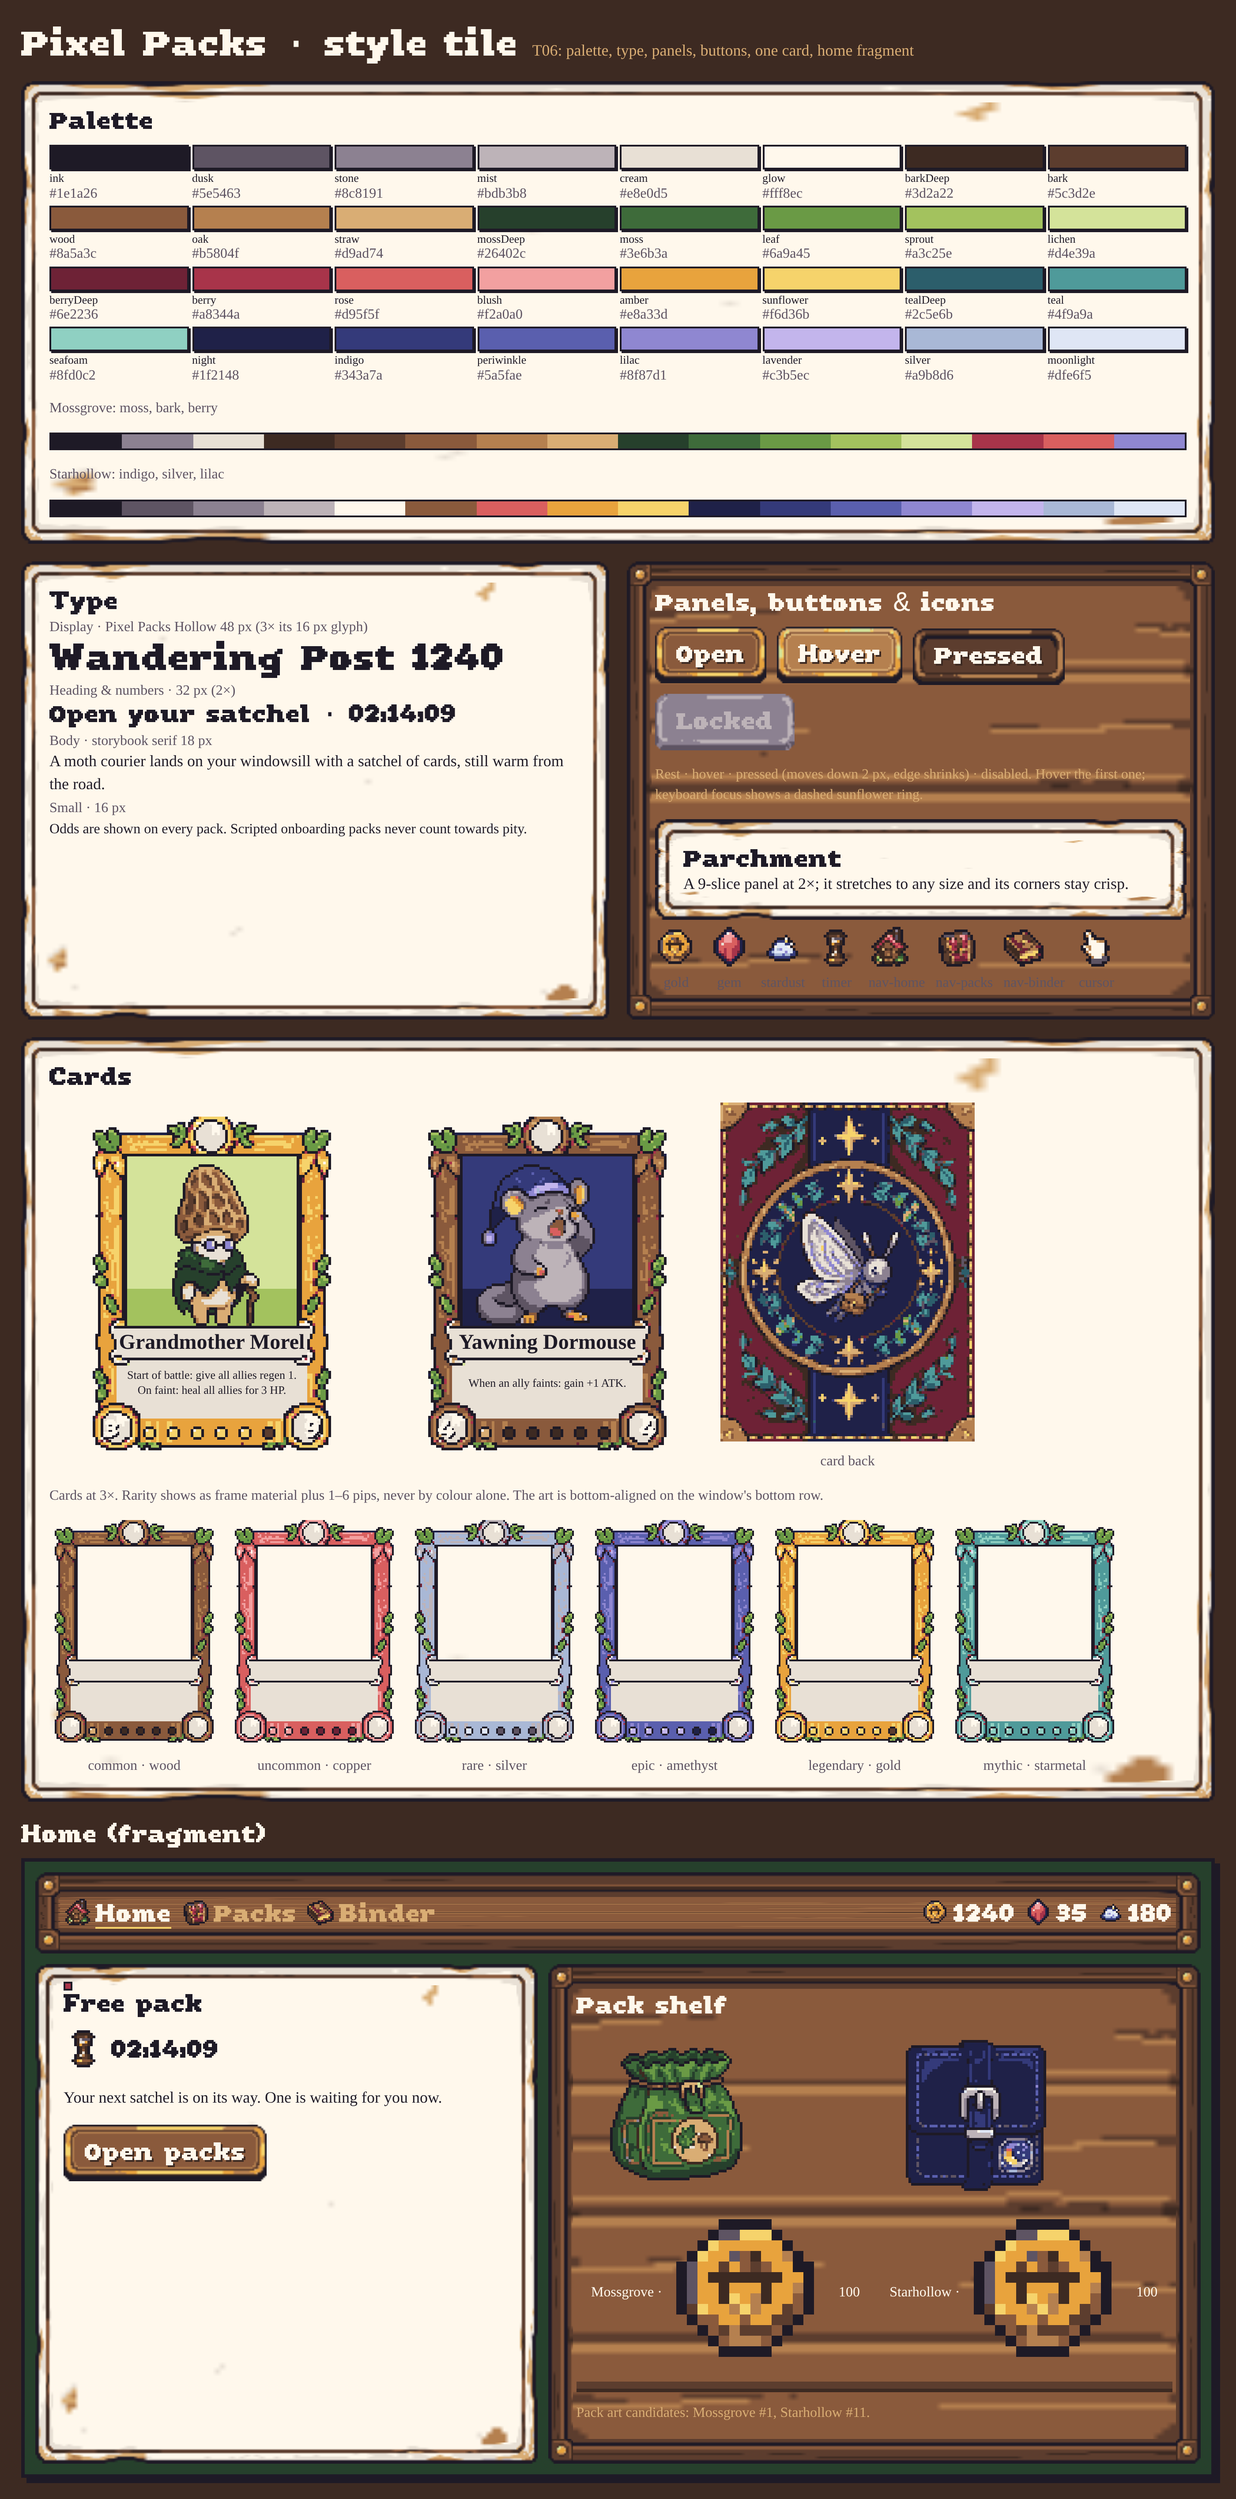
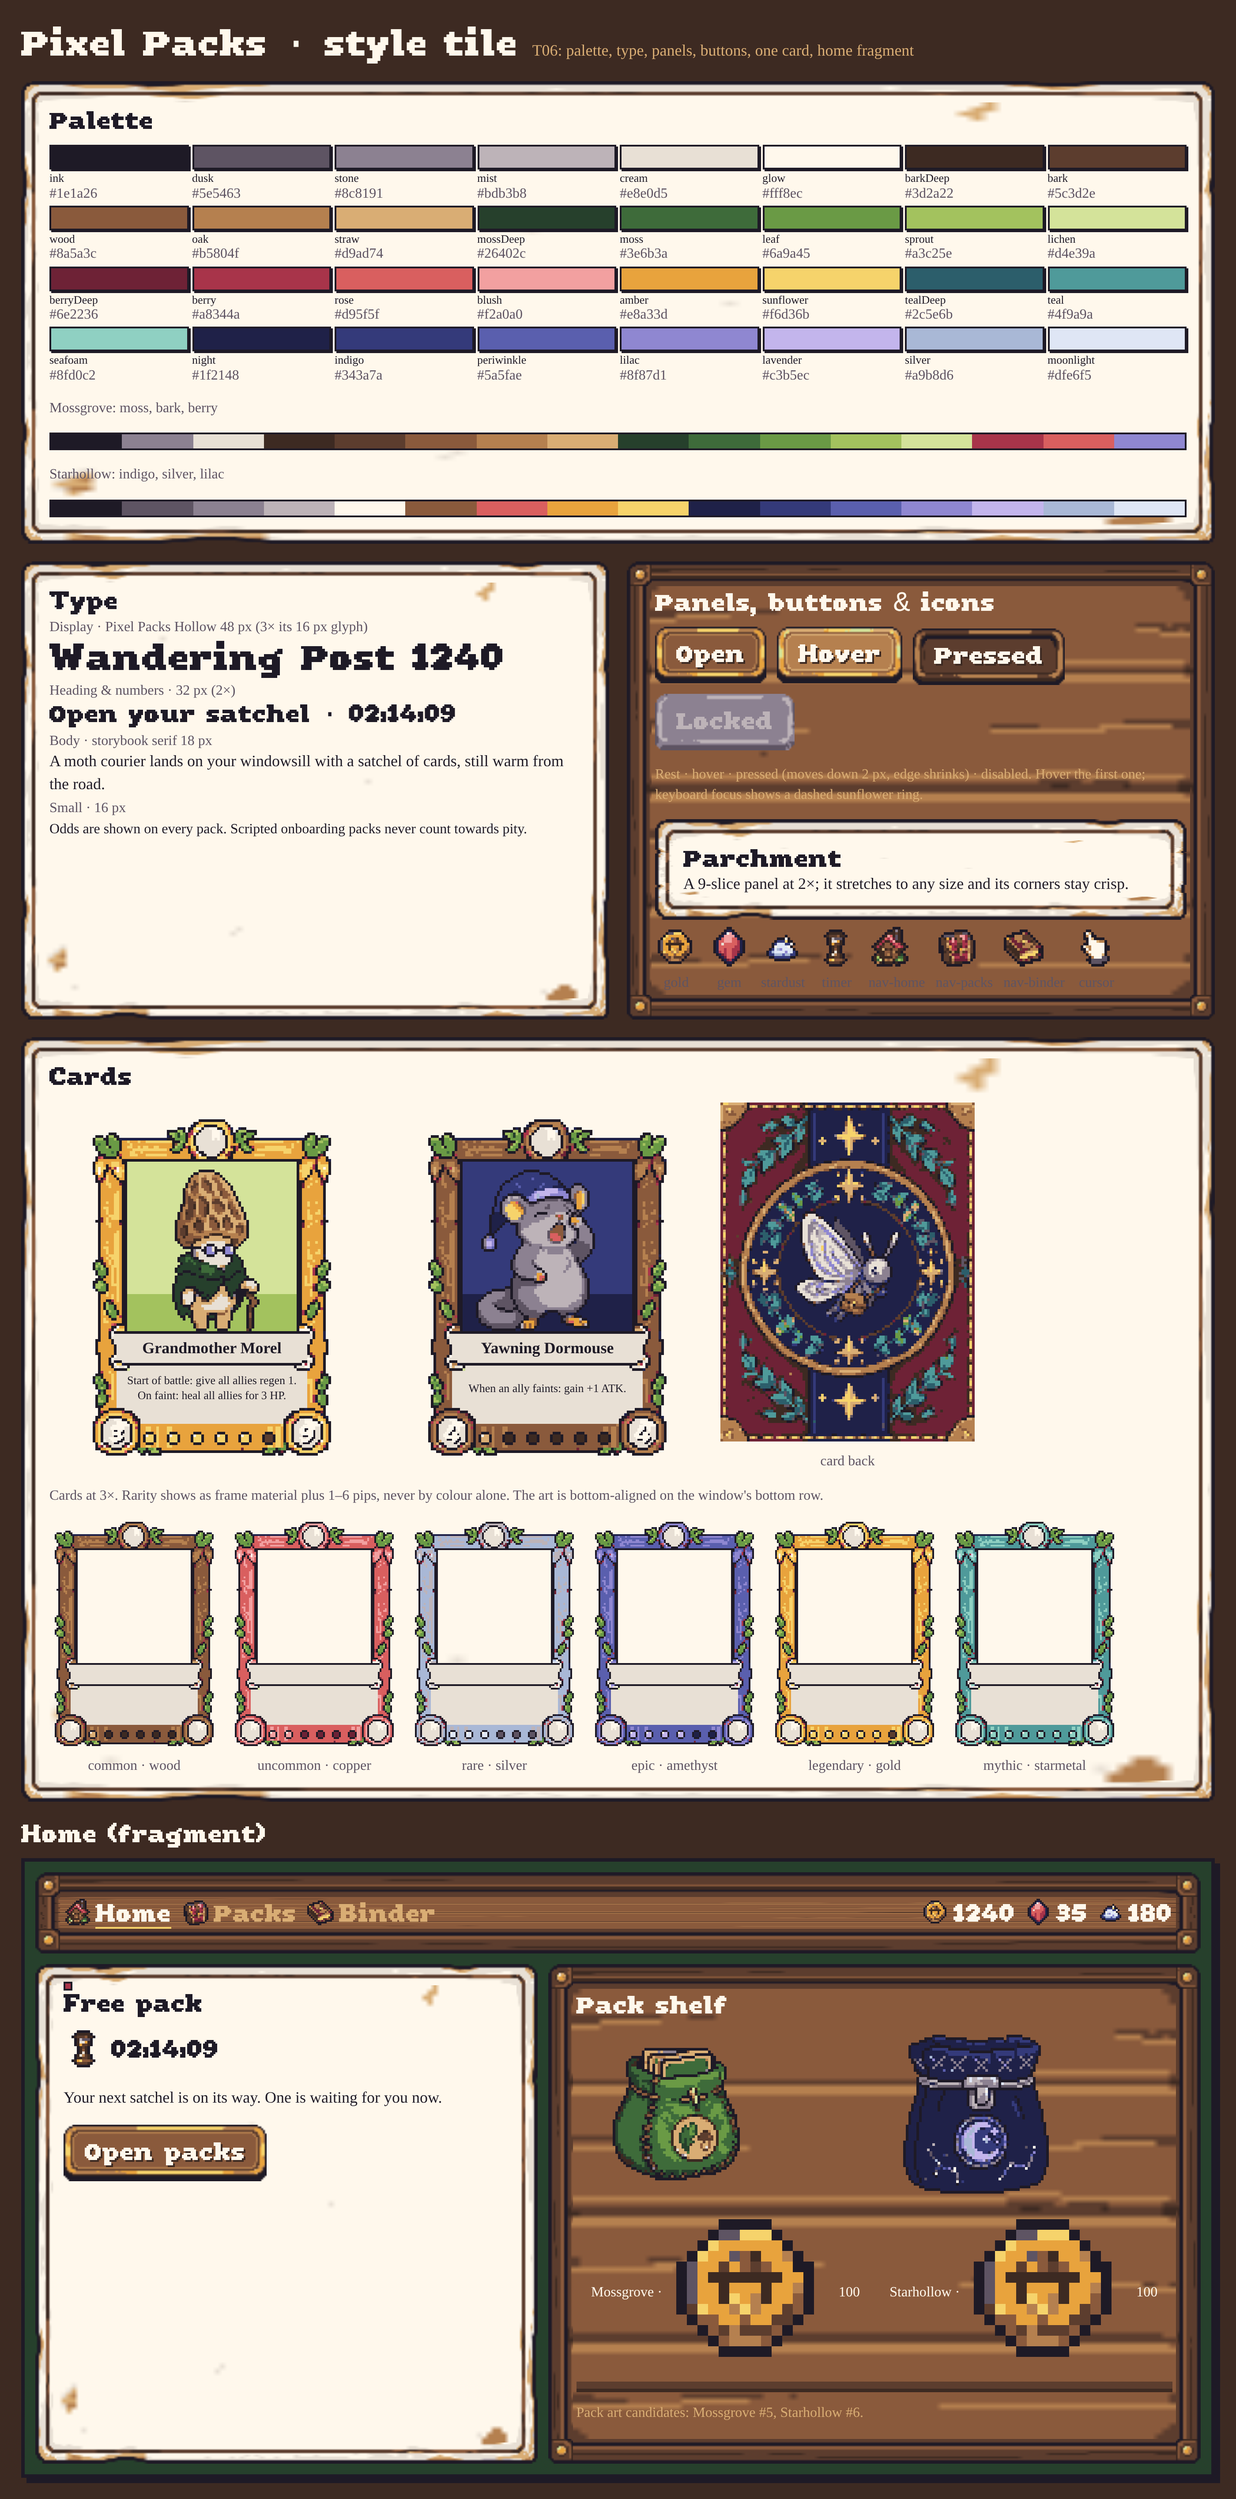
fix(artgen): T06 style-tile feedback — pack picks 5/6, centred stats, fitted names, closed crest
Claude-Session: https://claude.ai/code/session_01TCarrLGCn4KLSdW9LcTbe6

Changed region(s): [[0.0311, 0.4352, 0.9011, 0.7149], [0.7146, 0.8082, 0.87, 0.9014], [0.4971, 0.8082, 0.6214, 0.8704]]

diff --git a/apps/client/public/style-tile.html b/apps/client/public/style-tile.html
@@ -59,16 +59,16 @@ h2 { font-size: var(--heading); margin-bottom: 12px; }
 
 .card { position: relative; width: calc(96px * var(--card)); height: calc(128px * var(--card)); flex: none; }
 .card > * { position: absolute; }
-.card .backdrop, .card .art { left: calc(16px * var(--card)); top: calc(15px * var(--card)); width: calc(64px * var(--card)); height: calc(64px * var(--card)); }
+.card .backdrop, .card .art { left: calc(16px * var(--card)); top: calc(17px * var(--card)); width: calc(64px * var(--card)); height: calc(64px * var(--card)); }
 .card .backdrop { background: linear-gradient(var(--bd-sky) 78%, var(--bd-ground) 0); }
 .card .art { overflow: hidden; }
 .card .art img { width: 100%; height: 100%; }
 .card .frame { inset: 0; width: 100%; height: 100%; }
-.card .name { left: calc(10px * var(--card)); top: calc(81px * var(--card)); width: calc(76px * var(--card)); height: calc(9px * var(--card));
-  font: calc(8px * var(--card))/calc(9px * var(--card)) var(--font-body); font-weight: bold; text-align: center; white-space: nowrap; overflow: hidden; }
-.card .rules { left: calc(9px * var(--card)); top: calc(94px * var(--card)); width: calc(78px * var(--card)); height: calc(13px * var(--card));
+.card .name { left: calc(10px * var(--card)); top: calc(83px * var(--card)); width: calc(76px * var(--card)); height: calc(9px * var(--card)); padding: 0 calc(3px * var(--card));
+  font: bold var(--name-size, 20px)/calc(9px * var(--card)) var(--font-body); text-align: center; white-space: nowrap; overflow: hidden; }
+.card .rules { left: calc(9px * var(--card)); top: calc(96px * var(--card)); width: calc(78px * var(--card)); height: calc(13px * var(--card));
   font: 13px/1.25 var(--font-body); text-align: center; display: grid; place-content: center; }
-.card .stat { width: calc(10px * var(--card)); height: calc(11px * var(--card)); display: grid; place-items: center;
+.card .stat { display: grid; place-items: center;
   font: var(--heading)/1 var(--font-heading); color: var(--glow); text-shadow: 2px 2px 0 var(--ink); }
 
 .home { display: grid; grid-template-columns: 1fr 1.3fr; gap: 12px; background: var(--mossDeep); padding: 12px; border: 4px solid var(--ink); box-shadow: 6px 6px 0 var(--ink); }
@@ -111,18 +111,18 @@ h2 { font-size: var(--heading); margin-bottom: 12px; }
   <div class="backdrop"></div>
   <div class="art"><img src="/assets/cards/MOS-012.png" alt="" style="transform:translateY(calc(2px * var(--card)))"></div>
   <img class="frame" src="/assets/frames/legendary.png" alt="">
-  <div class="name">Grandmother Morel</div>
+  <div class="name" style="--name-size:18px">Grandmother Morel</div>
   <div class="rules"><span>Start of battle: give all allies regen 1.</span><span>On faint: heal all allies for 3 HP.</span></div>
-  <div class="stat" style="left:calc(5px * var(--card));top:calc(112px * var(--card))">3</div>
-  <div class="stat" style="left:calc(81px * var(--card));top:calc(112px * var(--card))">9</div>
+  <div class="stat" style="left:calc(7px * var(--card));top:calc(114px * var(--card));width:calc(10px * var(--card));height:calc(11px * var(--card))">3</div>
+  <div class="stat" style="left:calc(79px * var(--card));top:calc(114px * var(--card));width:calc(10px * var(--card));height:calc(11px * var(--card))">9</div>
 </figure><figure class="card" style="--bd-sky:#343a7a;--bd-ground:#1f2148" aria-label="Yawning Dormouse, common">
   <div class="backdrop"></div>
   <div class="art"><img src="/assets/cards/STA-003.png" alt="" style="transform:translateY(calc(2px * var(--card)))"></div>
   <img class="frame" src="/assets/frames/common.png" alt="">
-  <div class="name">Yawning Dormouse</div>
+  <div class="name" style="--name-size:18px">Yawning Dormouse</div>
   <div class="rules"><span>When an ally faints: gain +1 ATK.</span></div>
-  <div class="stat" style="left:calc(5px * var(--card));top:calc(112px * var(--card))">4</div>
-  <div class="stat" style="left:calc(81px * var(--card));top:calc(112px * var(--card))">4</div>
+  <div class="stat" style="left:calc(7px * var(--card));top:calc(114px * var(--card));width:calc(10px * var(--card));height:calc(11px * var(--card))">4</div>
+  <div class="stat" style="left:calc(79px * var(--card));top:calc(114px * var(--card));width:calc(10px * var(--card));height:calc(11px * var(--card))">4</div>
 </figure>
   <span><img class="px" src="/assets/frames/back.png" alt="card back" width="288" height="384"><span class="cap">card back</span></span></div>
   <p class="small">Cards at 3×. Rarity shows as frame material plus 1–6 pips, never by colour alone. The art is bottom-aligned on the window's bottom row.</p>
@@ -142,7 +142,7 @@ h2 { font-size: var(--heading); margin-bottom: 12px; }
     <button class="btn">Open packs</button>
   </div>
   <div class="panel-wood"><h2>Pack shelf</h2><div class="shelf"><figure class="pack" style="margin:0"><img src="/assets/packs/mossgrove.png" alt="mossgrove pack"><span class="cap" style="color:var(--glow)">Mossgrove · <img class="icon" src="/assets/icons/gold.png" alt="" width="16" height="16"> 100</span></figure><figure class="pack" style="margin:0"><img src="/assets/packs/starhollow.png" alt="starhollow pack"><span class="cap" style="color:var(--glow)">Starhollow · <img class="icon" src="/assets/icons/gold.png" alt="" width="16" height="16"> 100</span></figure></div>
-  <p class="small" style="color:var(--straw)">Pack art candidates: Mossgrove #1, Starhollow #11.</p></div>
+  <p class="small" style="color:var(--straw)">Pack art candidates: Mossgrove #5, Starhollow #6.</p></div>
 </div></section>
 </main>
 </body>

diff --git a/tools/artgen/src/styleTile/css.ts b/tools/artgen/src/styleTile/css.ts
@@ -1,4 +1,5 @@
 import {
+  CARD_FACE,
   CARD_SCALE,
   HEADING_FONT,
   MASTER_PALETTE,
@@ -11,6 +12,10 @@ const P = MASTER_PALETTE;
 const u = (n: number) => `${String(n * UI_SCALE)}px`;
 const slice = (s: readonly number[]) => s.join(' ');
 const sliceW = (s: readonly number[]) => s.map(u).join(' ');
+const c = (n: number) => `calc(${String(n)}px * var(--card))`;
+/** Absolute position of a CARD_FACE rect on a card drawn at --card scale. */
+const rect = (r: { x: number; y: number; w: number; h: number }) =>
+  `left: ${c(r.x)}; top: ${c(r.y)}; width: ${c(r.w)}; height: ${c(r.h)};`;
 
 /** Style-tile CSS (GDD §16): palette tokens only, integer pixel scales, hard shadows. */
 export function styleTileCss(): string {
@@ -71,16 +76,16 @@ h2 { font-size: var(--heading); margin-bottom: ${u(6)}; }
 
 .card { position: relative; width: calc(96px * var(--card)); height: calc(128px * var(--card)); flex: none; }
 .card > * { position: absolute; }
-.card .backdrop, .card .art { left: calc(16px * var(--card)); top: calc(15px * var(--card)); width: calc(64px * var(--card)); height: calc(64px * var(--card)); }
+.card .backdrop, .card .art { ${rect(CARD_FACE.art)} }
 .card .backdrop { background: linear-gradient(var(--bd-sky) 78%, var(--bd-ground) 0); }
 .card .art { overflow: hidden; }
 .card .art img { width: 100%; height: 100%; }
 .card .frame { inset: 0; width: 100%; height: 100%; }
-.card .name { left: calc(10px * var(--card)); top: calc(81px * var(--card)); width: calc(76px * var(--card)); height: calc(9px * var(--card));
-  font: calc(8px * var(--card))/calc(9px * var(--card)) var(--font-body); font-weight: bold; text-align: center; white-space: nowrap; overflow: hidden; }
-.card .rules { left: calc(9px * var(--card)); top: calc(94px * var(--card)); width: calc(78px * var(--card)); height: calc(13px * var(--card));
+.card .name { ${rect(CARD_FACE.name)} padding: 0 ${c(3)};
+  font: bold var(--name-size, 20px)/${c(CARD_FACE.name.h)} var(--font-body); text-align: center; white-space: nowrap; overflow: hidden; }
+.card .rules { ${rect(CARD_FACE.rules)}
   font: 13px/1.25 var(--font-body); text-align: center; display: grid; place-content: center; }
-.card .stat { width: calc(10px * var(--card)); height: calc(11px * var(--card)); display: grid; place-items: center;
+.card .stat { display: grid; place-items: center;
   font: var(--heading)/1 var(--font-heading); color: var(--glow); text-shadow: ${u(1)} ${u(1)} 0 var(--ink); }
 
 .home { display: grid; grid-template-columns: 1fr 1.3fr; gap: ${u(6)}; background: var(--mossDeep); padding: ${u(6)}; border: ${u(2)} solid var(--ink); box-shadow: ${u(3)} ${u(3)} 0 var(--ink); }

diff --git a/tools/artgen/src/styleTile/html.ts b/tools/artgen/src/styleTile/html.ts
@@ -33,6 +33,15 @@ const BACKDROP: Partial<Record<Realm, [string, string]>> = {
 const icon = (name: (typeof ICONS)[number], cls = 'icon') =>
   `<img class="${cls}" src="${iconFile(name)}" alt="" width="16" height="16">`;
 
+/**
+ * Card-name size in screen px at 3×: 20 px for most names, smaller for long ones
+ * so even "Umbra, the Dreaming Bear" keeps a margin inside the banner (checked
+ * for the whole catalog in styleTile.test.ts).
+ */
+export function nameSize(name: string): number {
+  return name.length <= 15 ? 20 : name.length <= 19 ? 18 : 16;
+}
+
 function card(id: string, rarity: Rarity | undefined, input: StyleTileInput): string {
   const c = CARD_CATALOG.find((x) => x.id === id);
   if (!c) throw new Error(`unknown card ${id}`);
@@ -40,13 +49,14 @@ function card(id: string, rarity: Rarity | undefined, input: StyleTileInput): st
   const [sky, ground] = BACKDROP[c.realm] ?? [MASTER_PALETTE.cream, MASTER_PALETTE.straw];
   const drop = input.artDrop[id] ?? 0;
   const s = (n: number) => `calc(${String(n)}px * var(--card))`;
-  const at = (rect: { x: number; y: number }) => `left:${s(rect.x)};top:${s(rect.y)}`;
+  const at = (r: { x: number; y: number; w: number; h: number }) =>
+    `left:${s(r.x)};top:${s(r.y)};width:${s(r.w)};height:${s(r.h)}`;
   const rules = cardRulesText(c);
   return `<figure class="card" style="--bd-sky:${sky};--bd-ground:${ground}" aria-label="${esc(c.name)}, ${r}">
   <div class="backdrop"></div>
   <div class="art"><img src="/assets/cards/${id}.png" alt="" style="transform:translateY(${s(drop)})"></div>
   <img class="frame" src="/assets/frames/${r}.png" alt="">
-  <div class="name">${esc(c.name)}</div>
+  <div class="name" style="--name-size:${String(nameSize(c.name))}px">${esc(c.name)}</div>
   <div class="rules">${rules.map((l) => `<span>${esc(l)}</span>`).join('')}</div>
   <div class="stat" style="${at(CARD_FACE.atk)}">${String(c.atk)}</div>
   <div class="stat" style="${at(CARD_FACE.hp)}">${String(c.hp)}</div>

diff --git a/packages/shared/src/config/cardFace.ts b/packages/shared/src/config/cardFace.ts
@@ -5,6 +5,8 @@ import { MASTER_PALETTE, type PaletteColourName } from './palettes.js';
  * Card-face geometry (GDD §4) in art pixels on the 96×128 frame
  * (`apps/client/public/assets/frames/<rarity>.png`, composed in T06).
  * The renderer (T07/T11) places art, text, stats and pips with these rects.
+ * The generated base sits 2 px lower than generated (`TOP_PAD`) so the crest
+ * ring on the top edge is fully inside the canvas.
  */
 export interface Rect {
   readonly x: number;
@@ -16,18 +18,18 @@ export interface Rect {
 export const CARD_FACE = {
   size: { w: 96, h: 128 },
   /** Transparent 64×64 art window; the art is bottom-aligned inside it. */
-  art: { x: 16, y: 15, w: 64, h: 64 },
+  art: { x: 16, y: 17, w: 64, h: 64 },
   /** Round crest socket on the top edge (realm crest). */
-  crest: { x: 42, y: 2, w: 11, h: 11 },
+  crest: { x: 43, y: 4, w: 10, h: 10 },
   /** Name banner text box. */
-  name: { x: 10, y: 81, w: 76, h: 9 },
+  name: { x: 10, y: 83, w: 76, h: 9 },
   /** Rules text box. */
-  rules: { x: 9, y: 94, w: 78, h: 13 },
-  /** ATK (left) and HP (right) badge sockets. */
-  atk: { x: 5, y: 112, w: 10, h: 11 },
-  hp: { x: 81, y: 112, w: 10, h: 11 },
+  rules: { x: 9, y: 96, w: 78, h: 13 },
+  /** ATK (left) and HP (right) badge sockets: the cream interior of each circle. */
+  atk: { x: 7, y: 114, w: 10, h: 11 },
+  hp: { x: 79, y: 114, w: 10, h: 11 },
   /** Six 5×5 rarity pips along the bottom edge, left to right. */
-  pips: [0, 1, 2, 3, 4, 5].map((i) => ({ x: 22 + i * 9, y: 117, w: 5, h: 5 })),
+  pips: [0, 1, 2, 3, 4, 5].map((i) => ({ x: 22 + i * 9, y: 119, w: 5, h: 5 })),
 } as const;
 
 /**

diff --git a/tools/artgen/src/compose/frames.ts b/tools/artgen/src/compose/frames.ts
@@ -50,12 +50,23 @@ const BY_HEX = new Map<string, PaletteColourName>(
 const INK = hexToRgba(MASTER_PALETTE.ink);
 const WINDOW_FILL = new Set<string>([MASTER_PALETTE.glow, MASTER_PALETTE.cream]);
 
+/**
+ * The generated crest ring touches the canvas top (its outline is cut off), and the
+ * bottom 2 rows are empty, so the whole frame moves down 2 px and the ring gets a cap.
+ */
+export const TOP_PAD = 2;
+
 /** Restructures the base (geometry only, still wood). */
 export function reshapeBase(base: PNG): PNG {
   const out = blank(CARD_FACE.size.w, CARD_FACE.size.h);
-  for (let y = 0; y < out.height; y++) {
-    const sy = sourceRow(y);
+  for (let y = TOP_PAD; y < out.height; y++) {
+    const sy = sourceRow(y - TOP_PAD);
     for (let x = 0; x < out.width; x++) set(out, x, y, get(base, x, sy));
+  }
+  // Crest cap: close the ring with an ink row above its old top row.
+  for (let x = 36; x <= 60; x++) {
+    const c = get(out, x, TOP_PAD);
+    if (c[3] > 0 && rgbaToHex(c) !== MASTER_PALETTE.ink) set(out, x, TOP_PAD - 1, INK);
   }
   const woodMid = hexToRgba(MASTER_PALETTE.wood);
   // Art window: exact 64×64 hole with a 1 px ink rim; leftover window fill becomes wood.
@@ -70,7 +81,9 @@ export function reshapeBase(base: PNG): PNG {
     }
   }
   // Pip strip: wipe the four generated sockets with the plain wood row above them.
-  for (let y = 116; y <= 122; y++) for (let x = 20; x <= 74; x++) set(out, x, y, get(out, x, 115));
+  const pipTop = 116 + TOP_PAD;
+  for (let y = pipTop; y <= pipTop + 6; y++)
+    for (let x = 20; x <= 74; x++) set(out, x, y, get(out, x, pipTop - 1));
   return out;
 }
 

diff --git a/tools/artgen/src/styleTile/styleTile.test.ts b/tools/artgen/src/styleTile/styleTile.test.ts
@@ -1,0 +1,21 @@
+import { describe, expect, it } from 'vitest';
+import { CARD_CATALOG, CARD_FACE } from '@pixel-packs/shared';
+import { nameSize, styleTileHtml } from './html.js';
+
+describe('style tile', () => {
+  it('sizes card names so the longest still gets the 16 px floor, never less', () => {
+    const sizes = CARD_CATALOG.map((c) => nameSize(c.name));
+    expect(Math.min(...sizes)).toBeGreaterThanOrEqual(16);
+    const longest = [...CARD_CATALOG].sort((a, b) => b.name.length - a.name.length)[0];
+    expect(longest && nameSize(longest.name)).toBe(16);
+  });
+
+  it('positions the card stats on the CARD_FACE badge rects', () => {
+    const html = styleTileHtml({ artDrop: {}, packPicks: { mossgrove: 5, starhollow: 6 } });
+    const { atk } = CARD_FACE;
+    expect(html).toContain(
+      `left:calc(${String(atk.x)}px * var(--card));top:calc(${String(atk.y)}px * var(--card))`,
+    );
+    expect(html).toContain('Mossgrove #5, Starhollow #6');
+  });
+});

diff --git a/tools/artgen/src/compose/t06.ts b/tools/artgen/src/compose/t06.ts
@@ -17,7 +17,7 @@ const CAND = 'tools/artgen/candidates/t06';
 const OUT = 'apps/client/public/assets';
 
 /** Pack candidates picked on the style tile (1-based, see the candidates' sheet.png). */
-export const T06_PACK_NUMBERS = { mossgrove: 1, starhollow: 11 };
+export const T06_PACK_NUMBERS = { mossgrove: 5, starhollow: 6 };
 const pick = (n: number) => String(n).padStart(2, '0');
 
 export const T06_PICKS = {
